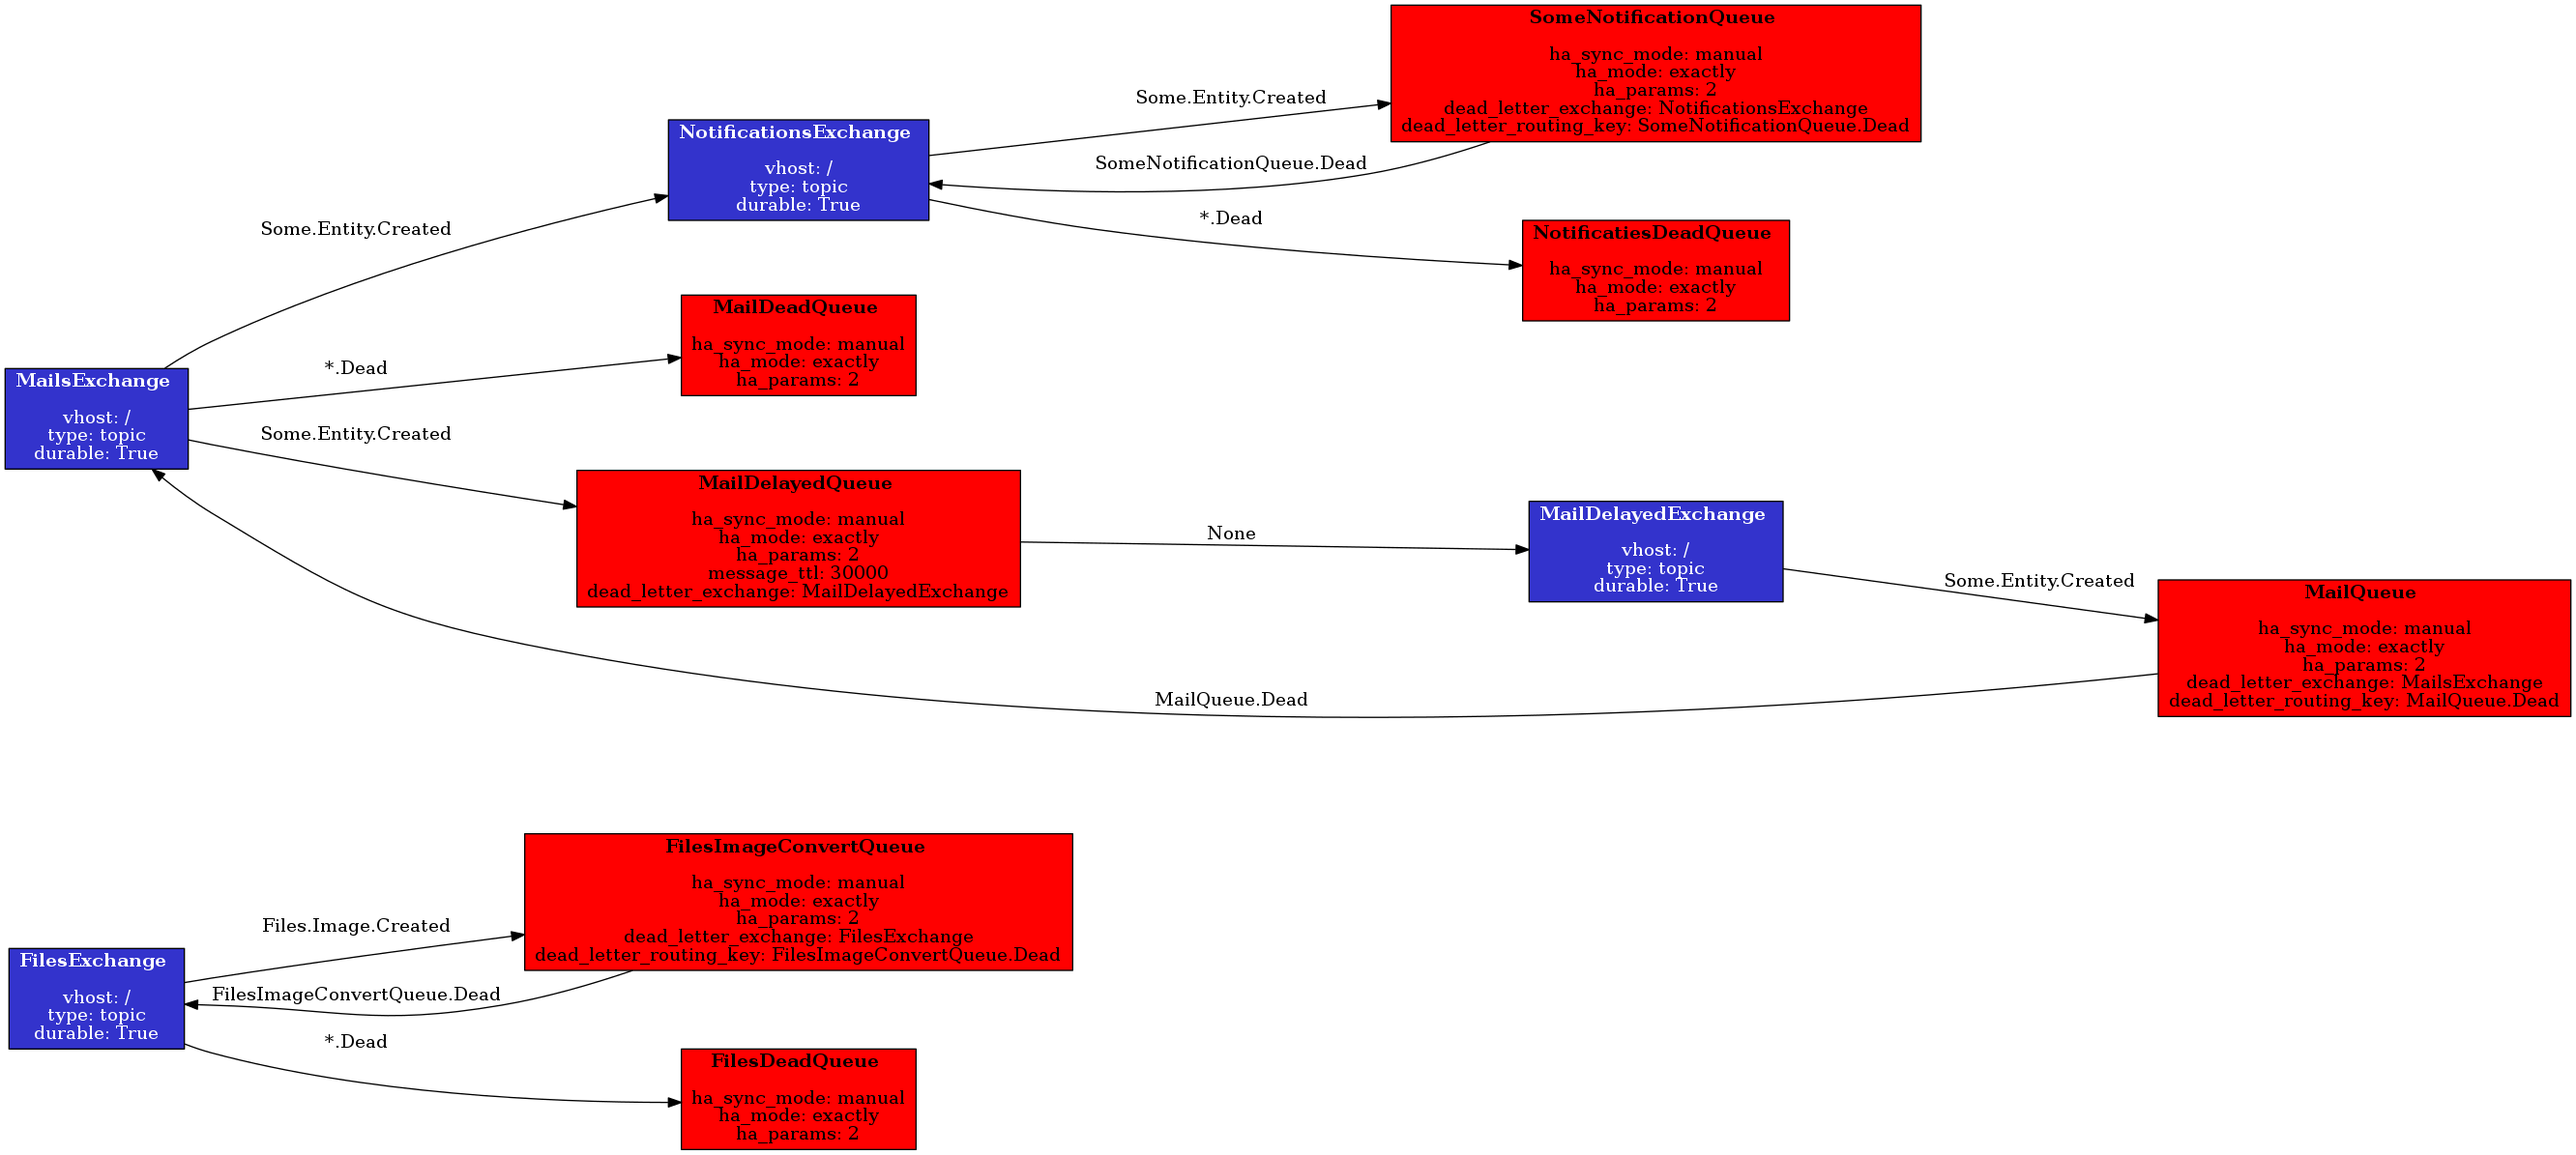
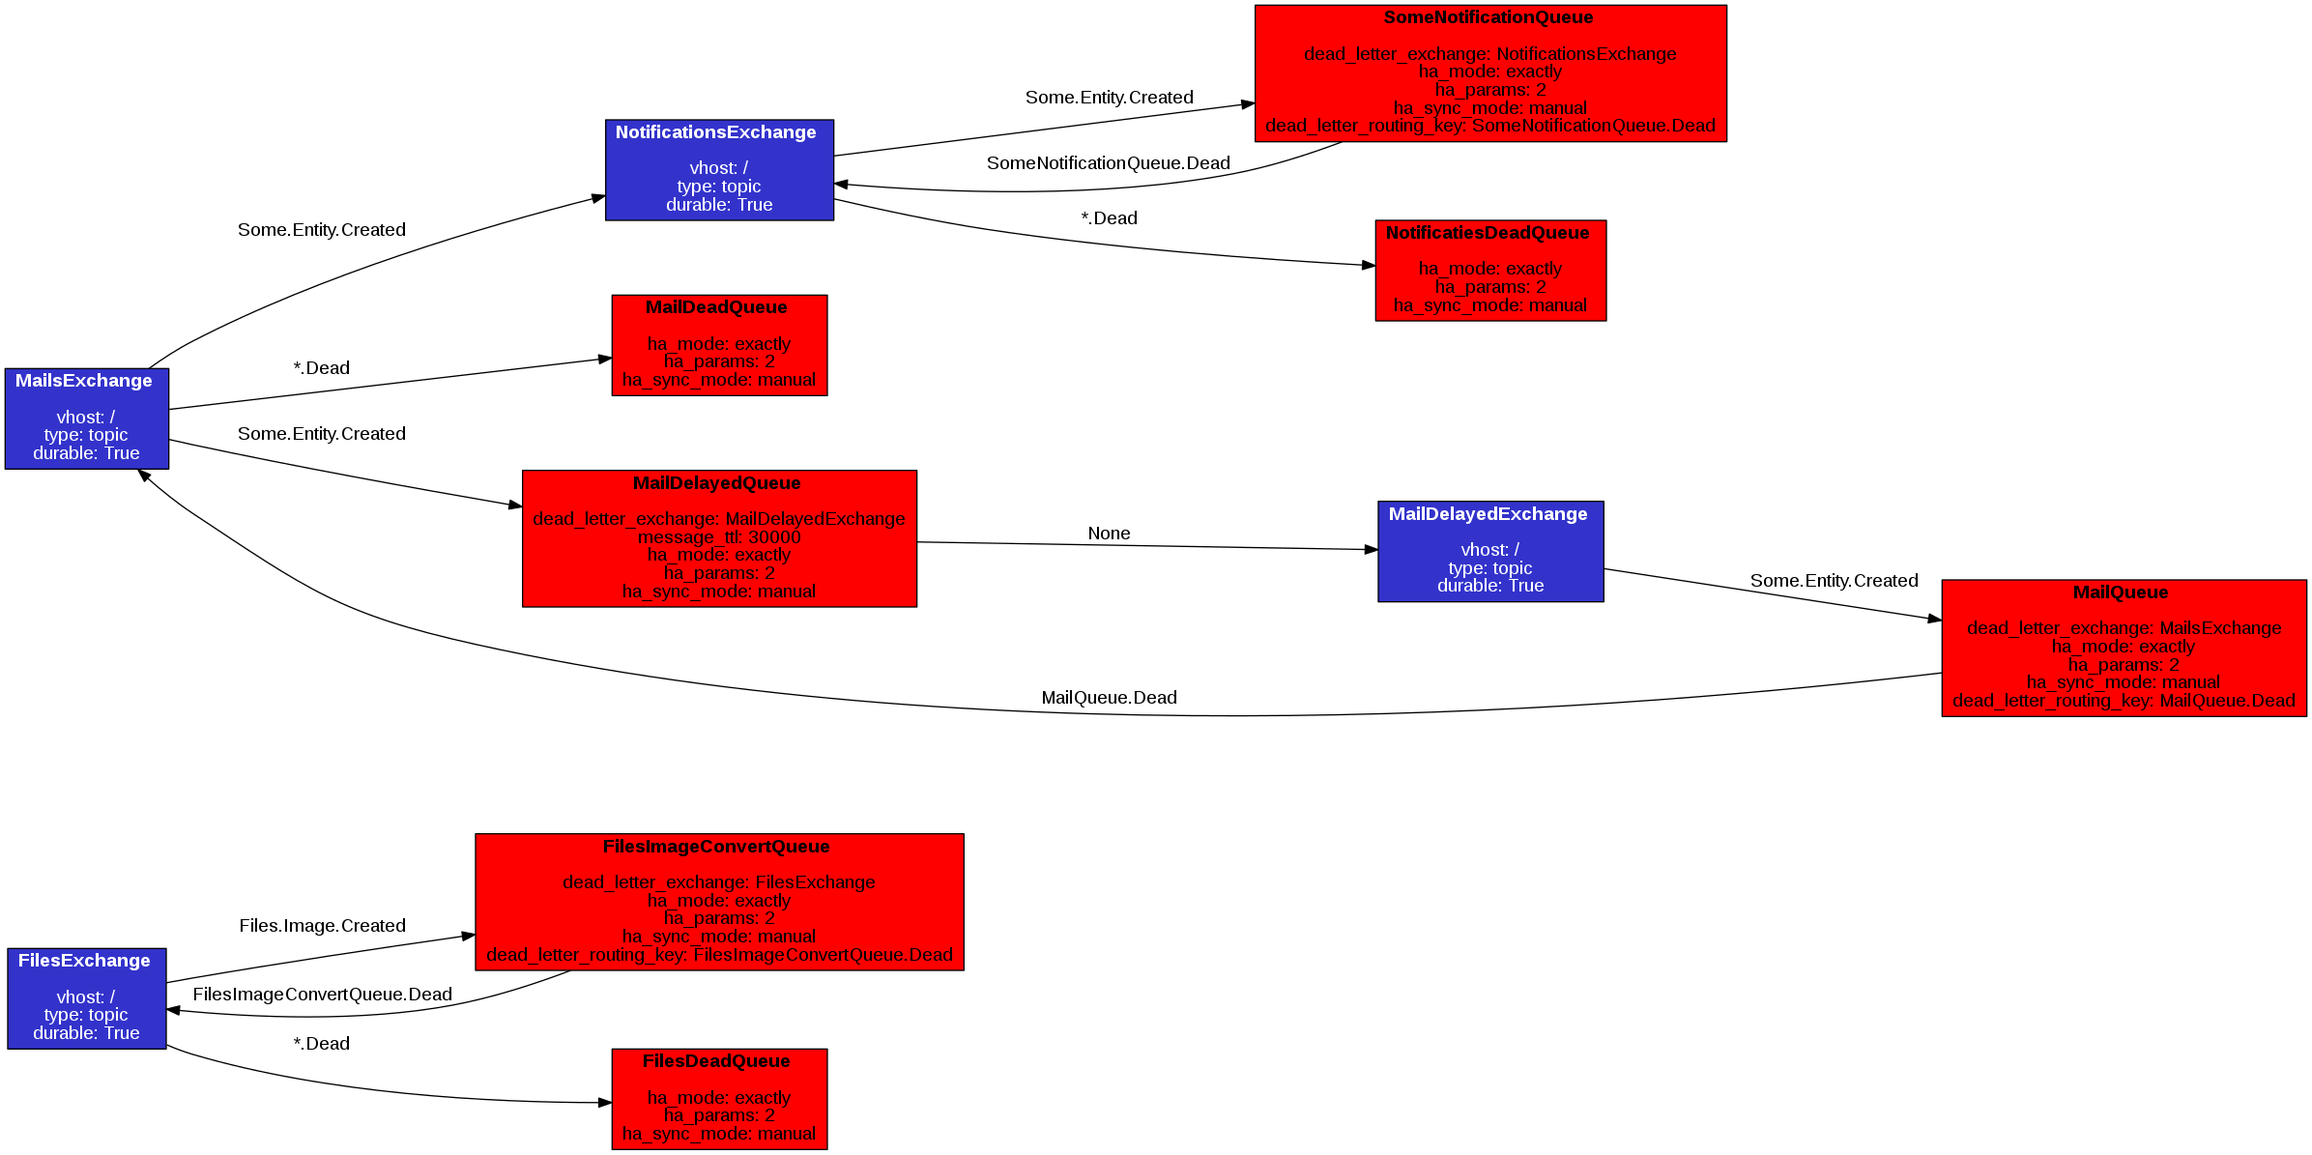
updated font to arial

diff --git a/app/generator.py b/app/generator.py
@@ -29,20 +29,22 @@ def main():
 
     for exchange in broker.exchanges():
         graph.add_node(exchange.name, label=exchange.label(), style='filled',
-                       shape='rectangle', fillcolor='#3333CC', fontcolor='#ffffff')
+                       shape='rectangle', fillcolor='#3333CC', fontcolor='#ffffff', 
+                       fontname='arial')
 
     for queue in broker.queues():
         graph.add_node(queue.name, label=queue.label(),
-                       style='filled', shape='rectangle', fillcolor='#FF0000')
+                       style='filled', shape='rectangle', fillcolor='#FF0000', fontname='arial')
 
     for binding in broker.bindings():
         graph.add_edge(binding.source, binding.destination, label=binding.routing_key,
-                       group=binding.source)
+                       group=binding.source, fontname='arial')
 
     for policy in broker.policies():
         if policy.pattern is not None and policy.definition.dead_letter_exchange is not None:
             graph.add_edge(policy.pattern, policy.definition.dead_letter_exchange,
-                           label=policy.definition.dead_letter_routing_key, group=policy.pattern)
+                           label=policy.definition.dead_letter_routing_key, group=policy.pattern,
+                           fontname='arial')
 
     graph.layout(prog='dot')
     graph.write(args.outfile)
